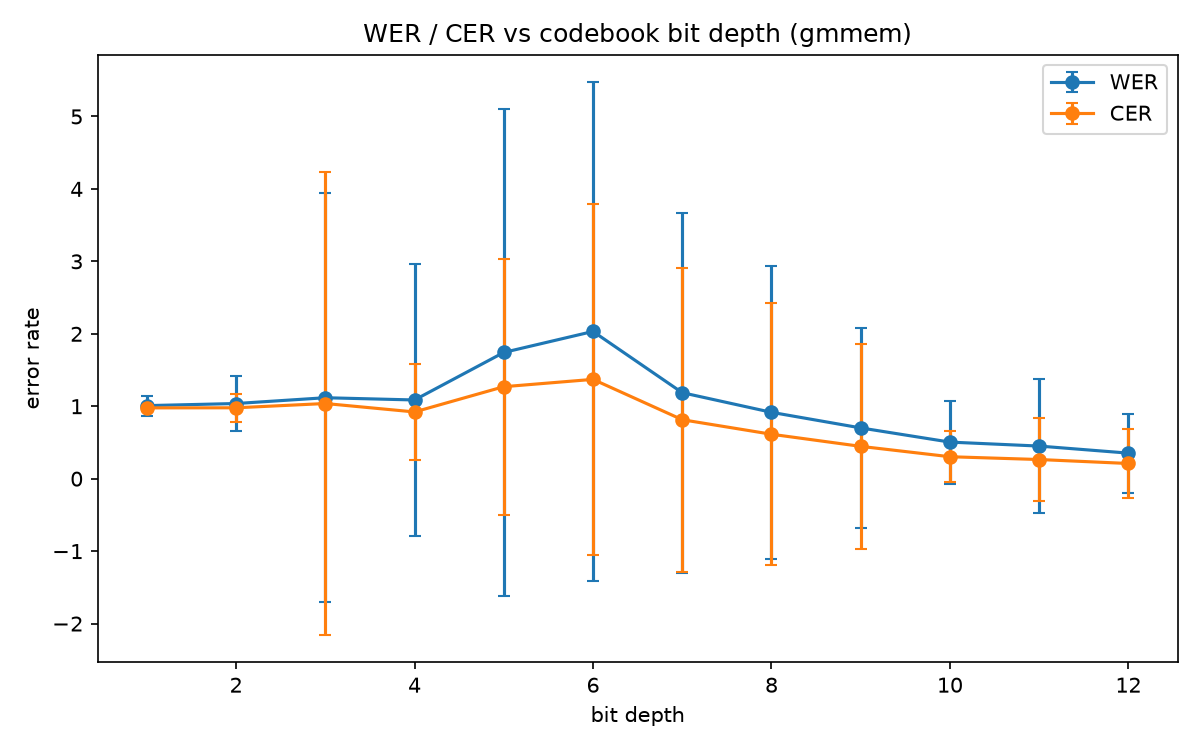
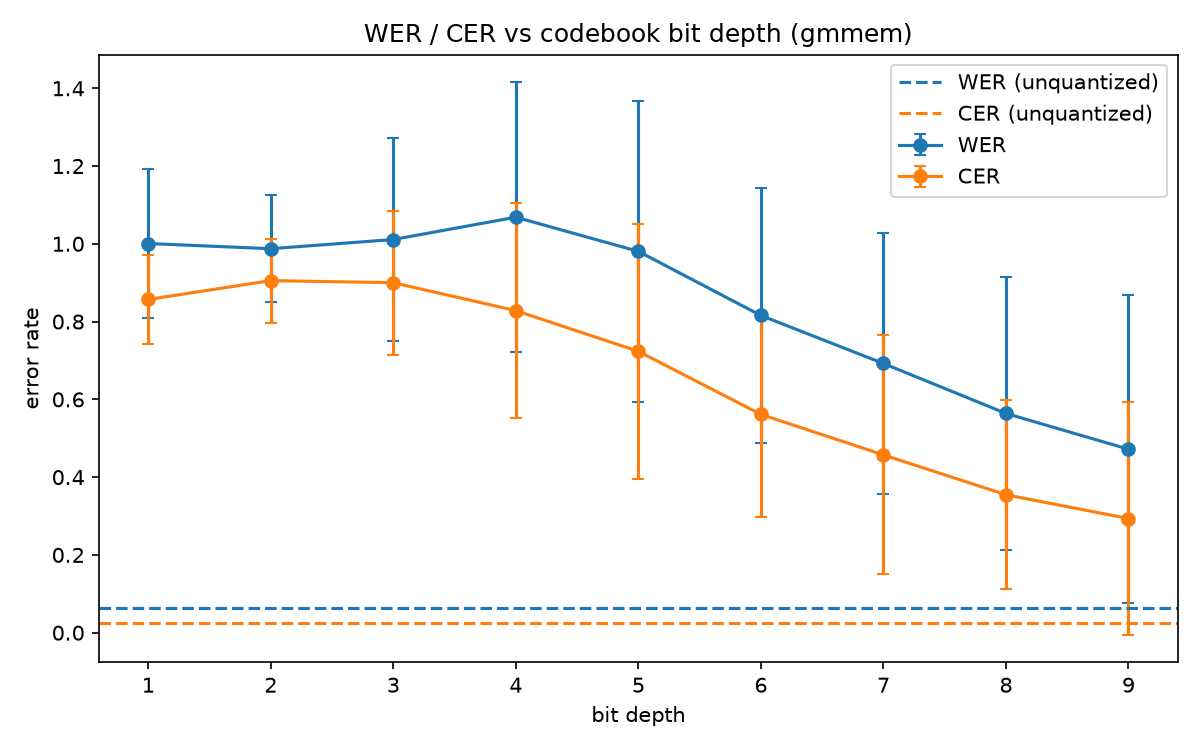
Add CSV export to sweep, relabel plot axis to resolution, fix spec_prob dataset loading
Save experiment.pipeline sweep results to
experiment/wer_cer_sweep_{algorithm}.csv alongside the plot. Relabel
the x-axis and title from bit depth to resolution (bits), which more
accurately describes what the sweep varies. Update spec_prob.py to use
the openslr/librispeech_asr repo id and soundfile-based FLAC decoding,
matching the fix already applied to the main pipeline. Include
regenerated sweep plots and the manifold distance visualization.

diff --git a/experiment/pipeline.py b/experiment/pipeline.py
@@ -1,3 +1,4 @@
+import csv
 import io
 import numpy as np
 import jiwer
@@ -93,6 +94,17 @@ def evaluate(model, test_dataset, codebook=None, quantize=True):
         cer_hist.append(jiwer.cer(ref_norm, pred_norm))
     return np.mean(wer_hist), np.mean(cer_hist), np.std(wer_hist), np.std(cer_hist)
 
+def save_sweep_csv(bitdepth, mean_wer_hist, mean_cer_hist, std_wer_hist, std_cer_hist, algorithm="kmeans", baseline_wer=None, baseline_cer=None):
+    out_path = f"experiment/wer_cer_sweep_{algorithm}.csv"
+    with open(out_path, "w", newline="") as f:
+        writer = csv.writer(f)
+        writer.writerow(["resolution_bits", "wer_mean", "wer_std", "cer_mean", "cer_std"])
+        for b, wer_mean, wer_std, cer_mean, cer_std in zip(bitdepth, mean_wer_hist, std_wer_hist, mean_cer_hist, std_cer_hist):
+            writer.writerow([b, wer_mean, wer_std, cer_mean, cer_std])
+        if baseline_wer is not None or baseline_cer is not None:
+            writer.writerow(["unquantized", baseline_wer, "", baseline_cer, ""])
+    print(f"saved {out_path}")
+
 def plot_sweep(bitdepth, mean_wer_hist, mean_cer_hist, std_wer_hist, std_cer_hist, algorithm="kmeans", baseline_wer=None, baseline_cer=None):
     import matplotlib.pyplot as plt
     fig, ax = plt.subplots(figsize=(8, 5))
@@ -102,9 +114,9 @@ def plot_sweep(bitdepth, mean_wer_hist, mean_cer_hist, std_wer_hist, std_cer_his
         ax.axhline(baseline_wer, color="tab:blue", linestyle="--", label="WER (unquantized)")
     if baseline_cer is not None:
         ax.axhline(baseline_cer, color="tab:orange", linestyle="--", label="CER (unquantized)")
-    ax.set_xlabel("bit depth")
+    ax.set_xlabel("resolution (bits)")
     ax.set_ylabel("error rate")
-    ax.set_title(f"WER / CER vs codebook bit depth ({algorithm})")
+    ax.set_title(f"WER / CER vs codebook resolution ({algorithm})")
     ax.legend()
     fig.tight_layout()
     out_path = f"experiment/wer_cer_sweep_{algorithm}.png"
@@ -113,7 +125,7 @@ def plot_sweep(bitdepth, mean_wer_hist, mean_cer_hist, std_wer_hist, std_cer_his
 
 def main(algorithm="kmeans"):
     mean_wer_hist, mean_cer_hist, std_wer_hist, std_cer_hist = [], [], [], []
-    bitdepth = list(range(1, 10))
+    bitdepth = list(range(1, 12))
     X = extract_train_features()
     model = whisper.load_model("base").to(get_device())
     test_dataset = load_split("test.clean").shuffle().select(range(1000))
@@ -128,6 +140,8 @@ def main(algorithm="kmeans"):
         std_cer_hist.append(cer_std)
     plot_sweep(bitdepth, mean_wer_hist, mean_cer_hist, std_wer_hist, std_cer_hist, algorithm=algorithm,
                baseline_wer=baseline_wer, baseline_cer=baseline_cer)
+    save_sweep_csv(bitdepth, mean_wer_hist, mean_cer_hist, std_wer_hist, std_cer_hist, algorithm=algorithm,
+                   baseline_wer=baseline_wer, baseline_cer=baseline_cer)
 
 if __name__ == "__main__":
     import argparse

diff --git a/visualizations/spec_prob.py b/visualizations/spec_prob.py
@@ -1,8 +1,10 @@
+import io
 import numpy as np
 import matplotlib.pyplot as plt
+import soundfile as sf
 from sklearn.decomposition import PCA
 from sklearn.manifold import TSNE
-from datasets import load_dataset
+from datasets import load_dataset, Audio
 import whisper
 
 from operations.spectrogram import log_mel_spectrogram
@@ -16,12 +18,17 @@ def load_frame_vectors(n_utterances=N_UTTERANCES, frames_per_utterance=FRAMES_PE
     Returns X: (N, 80) array of mel frame vectors, one row per time frame,
     pooled across a subset of LibriSpeech clean utterances.
     """
-    dataset = load_dataset("librispeech_asr", "all", split="test.clean").shuffle(seed=seed).select(range(n_utterances))
+    dataset = load_dataset("openslr/librispeech_asr", "all", split="test.clean")
+    dataset = dataset.cast_column("audio", Audio(decode=False))
+    dataset = dataset.shuffle(seed=seed).select(range(n_utterances))
 
     rng = np.random.default_rng(seed)
     vectors = []
     for utterance in dataset:
-        audio = np.asarray(utterance["audio"]["array"], dtype=np.float32)
+        audio, sr = sf.read(io.BytesIO(utterance["audio"]["bytes"]), dtype="float32")
+        if audio.ndim > 1:
+            audio = audio.mean(axis=1)
+        assert sr == whisper.audio.SAMPLE_RATE, f"expected {whisper.audio.SAMPLE_RATE} Hz, got {sr}"
         mel = whisper.log_mel_spectrogram(audio)      # (80, frames)
         mel = mel.numpy()
         frames = mel.T                        # (frames, 80)
